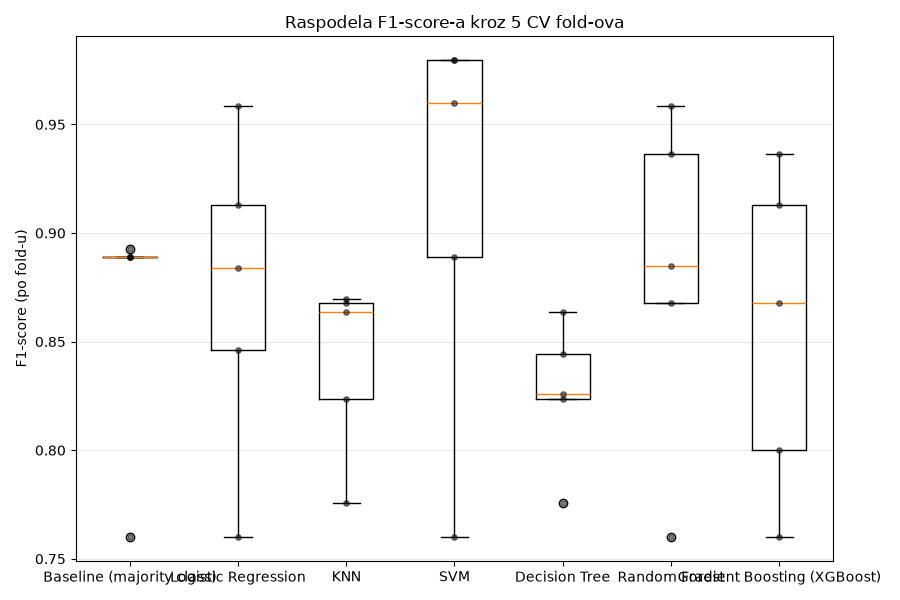
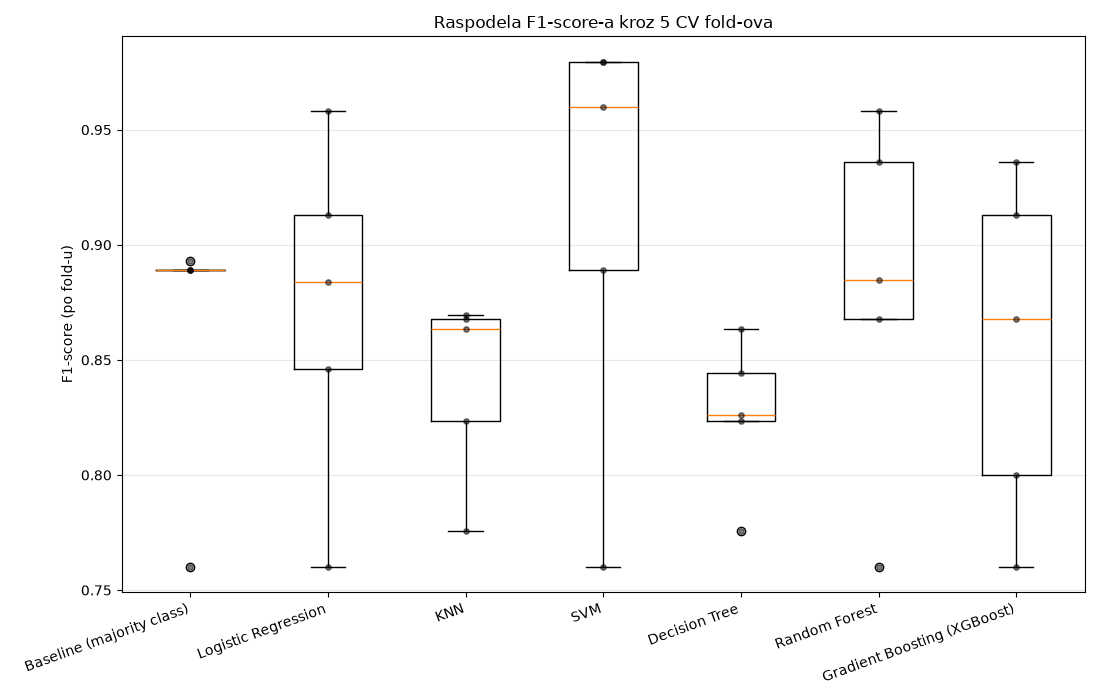
Update graphics

diff --git a/src/data_analysis.py b/src/data_analysis.py
@@ -1,4 +1,3 @@
-import re
 from pathlib import Path
 
 import pandas as pd
@@ -19,15 +18,11 @@ RESULTS_DIR.mkdir(parents=True, exist_ok=True)
 CORRELATION_HEATMAP_PATH = RESULTS_DIR / "correlation_heatmap.png"
 CLASS_DISTRIBUTION_PATH = RESULTS_DIR / "class_distribution.png"
 PCA_SCATTER_PATH = RESULTS_DIR / "pca_scatter.png"
+BOXPLOTS_PATH = RESULTS_DIR / "boxplots_top_features.png"
+HISTOGRAMS_PATH = RESULTS_DIR / "histograms_top_features.png"
 
 TOP_N_FEATURES = 9
-
-
-def sanitize_feature_name(feature):
-    """
-    "MDVP:Fo(Hz)" -> "MDVP_FoHz", da ime fajla bude bezbedno za sve OS.
-    """
-    return re.sub(r"[^0-9a-zA-Z]+", "_", feature).strip("_")
+GRID_ROWS, GRID_COLS = 3, 3
 
 
 def plot_correlation_heatmap(numeric_df, output_path):
@@ -69,14 +64,25 @@ def top_correlated_features(correlation, target="status", n=TOP_N_FEATURES):
     )
 
 
-def plot_feature_boxplot(df, feature, output_path):
-    plt.figure(figsize=(5, 4))
-    sns.boxplot(x="status", y=feature, data=df, hue="status", legend=False)
-    plt.title(f"{feature} po klasama")
-    plt.xlabel("status (0 = zdrav, 1 = Parkinson)")
-    plt.tight_layout()
-    plt.savefig(output_path)
-    plt.close()
+def plot_feature_boxplots(df, features, output_path):
+    """
+    Svi top-N boxplot-ovi na jednoj slici (grid), umesto jednog fajla po
+    atributu - lakše za poređenje na prvi pogled.
+    """
+    fig, axes = plt.subplots(GRID_ROWS, GRID_COLS, figsize=(15, 12))
+
+    for ax, feature in zip(axes.flat, features):
+        sns.boxplot(x="status", y=feature, data=df, hue="status", legend=False, ax=ax)
+        ax.set_title(feature)
+        ax.set_xlabel("status (0 = zdrav, 1 = Parkinson)")
+
+    for ax in axes.flat[len(features):]:
+        ax.axis("off")
+
+    fig.suptitle("Top atributi po korelaciji sa 'status' - raspodela po klasama")
+    fig.tight_layout()
+    fig.savefig(output_path)
+    plt.close(fig)
 
 
 def plot_pca_scatter(numeric_df, output_path):
@@ -117,13 +123,24 @@ def plot_pca_scatter(numeric_df, output_path):
     return explained_variance
 
 
-def plot_feature_histogram(df, feature, output_path):
-    plt.figure(figsize=(5, 4))
-    sns.histplot(data=df, x=feature, hue="status", kde=True, element="step")
-    plt.title(f"Raspodela atributa {feature}")
-    plt.tight_layout()
-    plt.savefig(output_path)
-    plt.close()
+def plot_feature_histograms(df, features, output_path):
+    """
+    Svi top-N histogrami na jednoj slici (grid), umesto jednog fajla po
+    atributu - lakše za poređenje na prvi pogled.
+    """
+    fig, axes = plt.subplots(GRID_ROWS, GRID_COLS, figsize=(15, 12))
+
+    for ax, feature in zip(axes.flat, features):
+        sns.histplot(data=df, x=feature, hue="status", kde=True, element="step", ax=ax)
+        ax.set_title(feature)
+
+    for ax in axes.flat[len(features):]:
+        ax.axis("off")
+
+    fig.suptitle("Top atributi po korelaciji sa 'status' - raspodela vrednosti")
+    fig.tight_layout()
+    fig.savefig(output_path)
+    plt.close(fig)
 
 
 def main():
@@ -169,14 +186,8 @@ def main():
     print(f"\nAtributi najjače korelisani sa 'status' (top {TOP_N_FEATURES}):")
     print(correlation["status"][top_features])
 
-    for feature in top_features:
-        safe_name = sanitize_feature_name(feature)
-        plot_feature_boxplot(
-            numeric_df, feature, RESULTS_DIR / f"boxplot_{safe_name}.png"
-        )
-        plot_feature_histogram(
-            numeric_df, feature, RESULTS_DIR / f"histogram_{safe_name}.png"
-        )
+    plot_feature_boxplots(numeric_df, top_features, BOXPLOTS_PATH)
+    plot_feature_histograms(numeric_df, top_features, HISTOGRAMS_PATH)
 
     print(f"\nGrafici su sačuvani u: {RESULTS_DIR}")
 

diff --git a/src/learning_curve.py b/src/learning_curve.py
@@ -2,16 +2,23 @@
 Learning curve za finalni model - train vs cross-validation F1-score u
 zavisnosti od veličine trening skupa.
 
-Svrha: vizuelno pokazati da li model underfituje (i train i CV skor niski),
-overfituje (train skor visok, CV skor nizak i razmak između njih veliki) ili
-je dobro balansiran (oba skora se približavaju sa više podataka).
+Svrha: pokazati da li model underfituje (i train i CV skor niski), overfituje
+(train skor visok, CV skor nizak i razmak između njih veliki) ili je dobro
+balansiran (oba skora se približavaju sa više podataka).
+
+Rezultat je tabela (CSV), ne grafik: sa samo 32 osobe, svaka tačka je CV
+procena na grupama od ~5-6 osoba po fold-u, pa je linija na grafiku
+šumovita (par konkretnih osoba pomeri CV F1 gore-dole nekoliko procentnih
+poena) - tabela sa std. devijacijom po veličini je iskreniji prikaz te
+nesigurnosti nego glatka linija koja sugeriše čistiji trend nego što ga
+ovaj dataset stvarno može da pokaže.
 """
 
 from pathlib import Path
 
 import joblib
 import numpy as np
-import matplotlib.pyplot as plt
+import pandas as pd
 
 from sklearn.model_selection import learning_curve, StratifiedGroupKFold
 
@@ -25,7 +32,7 @@ FEATURES_PATH = BASE_DIR / "models" / "selected_features.joblib"
 
 RESULTS_DIR = BASE_DIR / "results" / "final_model"
 RESULTS_DIR.mkdir(parents=True, exist_ok=True)
-OUTPUT_PATH = RESULTS_DIR / "learning_curve.png"
+OUTPUT_PATH = RESULTS_DIR / "learning_curve.csv"
 
 TRAIN_SIZES = np.linspace(0.2, 1.0, 8)
 
@@ -54,32 +61,23 @@ def main():
 
     train_mean, train_std = train_scores.mean(axis=1), train_scores.std(axis=1)
     test_mean, test_std = test_scores.mean(axis=1), test_scores.std(axis=1)
+    gap = train_mean - test_mean
 
-    print("Veličina trening podskupa | Train F1 | CV F1")
-    for size, tr, te in zip(train_sizes_abs, train_mean, test_mean):
-        print(f"{size:>24} | {tr:.4f}   | {te:.4f}")
+    table = pd.DataFrame({
+        "Veličina trening skupa": train_sizes_abs,
+        "Train F1 (prosek)": train_mean,
+        "Train F1 (std)": train_std,
+        "CV F1 (prosek)": test_mean,
+        "CV F1 (std)": test_std,
+        "Razmak (Train - CV)": gap,
+    })
 
-    plt.figure(figsize=(8, 5))
-    plt.plot(train_sizes_abs, train_mean, marker="o", label="Train F1-score")
-    plt.fill_between(
-        train_sizes_abs, train_mean - train_std, train_mean + train_std, alpha=0.15
-    )
-    plt.plot(train_sizes_abs, test_mean, marker="o", label="CV F1-score")
-    plt.fill_between(
-        train_sizes_abs, test_mean - test_std, test_mean + test_std, alpha=0.15
-    )
-    plt.xlabel("Broj snimaka u trening podskupu")
-    plt.ylabel("F1-score")
-    plt.title("Learning curve - finalni model (Random Forest)")
-    plt.legend(loc="lower right")
-    plt.grid(True, alpha=0.3)
-    plt.tight_layout()
-    plt.savefig(OUTPUT_PATH)
-    plt.close()
+    print(table.to_string(index=False))
 
-    gap = train_mean[-1] - test_mean[-1]
-    print(f"\nRazmak (train - CV) F1 na punom trening skupu: {gap:.4f}")
-    print(f"Grafik sačuvan u: {OUTPUT_PATH}")
+    table.to_csv(OUTPUT_PATH, index=False)
+
+    print(f"\nRazmak (train - CV) F1 na punom trening skupu: {gap[-1]:.4f}")
+    print(f"Tabela sačuvana u: {OUTPUT_PATH}")
 
 
 if __name__ == "__main__":

diff --git a/src/train.py b/src/train.py
@@ -112,7 +112,7 @@ def plot_cv_score_boxplots(raw_fold_scores, output_path):
     model_names = list(raw_fold_scores.keys())
     fold_f1_scores = [raw_fold_scores[name]["test_f1"] for name in model_names]
 
-    plt.figure(figsize=(9, 6))
+    plt.figure(figsize=(11, 7))
     plt.boxplot(fold_f1_scores, tick_labels=model_names)
     plt.scatter(
         np.repeat(np.arange(1, len(model_names) + 1), 5),
@@ -122,6 +122,7 @@ def plot_cv_score_boxplots(raw_fold_scores, output_path):
         s=15,
         zorder=3,
     )
+    plt.xticks(rotation=20, ha="right")
     plt.ylabel("F1-score (po fold-u)")
     plt.title("Raspodela F1-score-a kroz 5 CV fold-ova")
     plt.grid(True, axis="y", alpha=0.3)

diff --git a/README.md b/README.md
@@ -124,13 +124,35 @@ dodatno proverava koliko su ove metrike osetljive na konkretan izbor
 train/test split-a, ponavljajući split+trening+evaluaciju za 7 različitih
 random seed-ova (videti [results/final_model/split_robustness.csv](results/final_model/split_robustness.csv)).
 
-[src/learning_curve.py](src/learning_curve.py) prikazuje train vs CV
-F1-score u zavisnosti od veličine trening skupa
-([results/final_model/learning_curve.png](results/final_model/learning_curve.png)):
-na punom trening skupu train F1 ≈ 0.99, CV F1 ≈ 0.84 — razmak od ~0.15
-ukazuje na blagi overfitting, što je realno za Random Forest na skupu od
-ovolike veličine, ali nije alarmantno (CV skor ostaje stabilan, ne pada sa
-više podataka).
+[src/learning_curve.py](src/learning_curve.py) upoređuje train vs CV
+F1-score u zavisnosti od veličine trening skupa, sačuvano kao **tabela**
+([results/final_model/learning_curve.csv](results/final_model/learning_curve.csv))
+umesto grafika: sa samo 32 osobe, svaka tačka je CV procena na grupama od
+~5-6 osoba po fold-u (CV F1 std. devijacija po veličini je 0.05-0.07, što
+je istog reda veličine kao i razlike između susednih tačaka), pa bi glatka
+linija na grafiku sugerisala čistiji, pouzdaniji trend nego što ovaj
+dataset stvarno može da pokaže.
+
+Na punom trening skupu (158 uzoraka): train F1 ≈ 0.99, CV F1 ≈ 0.84 —
+razmak od ~0.15. Bitno: taj razmak **nije specifičan za najveću veličinu**
+- kreće se 0.10-0.15 kroz ceo opseg veličina (vidi CSV), uključujući i
+najmanji trening podskup (31 uzoraka, gde je train F1 već 1.0). To je znak
+da je razmak strukturna karakteristika Random Forest-a na ovom dataset-u
+(videti dole), ne nešto što bi se popravilo samo postepenim dodavanjem
+podataka iz **istog**, već postojećeg skupa od 32 osobe.
+
+**Da li se taj razmak može smanjiti?** Probano je sa jačom regularizacijom
+(manji `max_depth`, veći `min_samples_leaf` u `GridSearchCV` grid-u, mereno
+na `X_train` preko `GridSearchCV.best_score_` - drugačiji postupak merenja
+od `learning_curve.py` iznad, pa je polazni razmak ovde 0.125, ne 0.15, ali
+zaključak je isti): i sa `max_depth=3, min_samples_leaf=10` razmak ostaje
+praktično isti (0.125 → 0.108), dok CV F1 pada sa 0.871 na 0.818. Razlog:
+kod Random Forest-a (bagging) razmak delom dolazi iz same prirode bagginga
+(svako stablo skoro savršeno klasifikuje sopstveni bootstrap uzorak), ne
+samo iz dubine stabla, pa ga je teško ukloniti bez žrtvovanja
+generalizacije. Pošto `GridSearchCV` već bira kombinaciju koja maksimizuje
+CV F1 (ispravan kriterijum), trenutni hiperparametri se ne menjaju samo da
+bi razmak izgledao manji na grafiku.
 
 Baseline (model koji uvek predviđa većinsku klasu) ima F1 = 0.86 i
 ROC-AUC = 0.50 — visok F1 baseline-a je posledica neravnomernih klasa
@@ -147,7 +169,18 @@ tri metode se slažu oko 4 snimka (osobe `S24` i `S35`,
 [results/anomaly_detection/anomaly_overlap.txt](results/anomaly_detection/anomaly_overlap.txt)) -
 nisu uklonjeni, jer kod ovako malog dataset-a izolovanost u prostoru
 atributa pre liči na prirodnu varijaciju izraženosti bolesti nego na
-grešku u merenju.
+grešku u merenju. Bitan detalj: anomalna su samo 4 od ukupno 13 snimaka
+ove dve osobe (S24 ima 6 snimaka, S35 ima 7), ne svi njihovi snimci - da
+je cela osoba "čudna", to bi ukazivalo na grešku u opremi/protokolu za tu
+osobu, ali pošto su samo pojedini njeni snimci izolovani, to više liči na
+varijaciju izraženosti simptoma iz snimka u snimak.
+
+Ova odluka je i empirijski proverena: treniranje istog modela (isti split,
+isti grid) bez ta 4 snimka **pogoršava** i CV F1 (0.871 → 0.848) i test
+ROC-AUC (0.970 → 0.938), bez ikakve dobiti na ostalim test metrikama (koje
+ostaju iste, pošto su anomalni snimci bili u trening, ne u test skupu).
+Uklanjanje anomalija ovde ne čisti šum - briše deo signala koji model
+treba da nauči.
 
 Potpuna dokumentacija projekta (opis problema, metodologija, rezultati i
 diskusija po fazama specifikacije) je u

diff --git a/docs/documentation.md b/docs/documentation.md
@@ -58,8 +58,9 @@ rezultati u [results/graphics/](../results/graphics/).
 - **Atributi najjače korelisani sa ciljnom promenljivom**: `spread1`,
   `PPE`, `spread2`, `MDVP:Fo(Hz)`, `MDVP:Flo(Hz)`, `MDVP:Shimmer`,
   `MDVP:APQ`, `HNR`, `Shimmer:APQ5` (apsolutna Pearson korelacija sa
-  `status`). Za njih su generisani `boxplot_*.png` (raspodela po klasi) i
-  `histogram_*.png` (raspodela vrednosti) grafici.
+  `status`). Za njih su generisani `boxplots_top_features.png` (raspodela
+  po klasi, sva 9 atributa na jednoj slici, grid 3×3) i
+  `histograms_top_features.png` (raspodela vrednosti, isti format).
 - **Anomalije/ekstremne vrednosti**: boxplot-ovi pokazuju prirodno
   rasipanje karakteristično za biomedicinske signale (par outlier-a po
   atributu), bez vrednosti koje ukazuju na grešku u merenju/unosu (npr.
@@ -209,14 +210,28 @@ pouzdaniji uvid u kvalitet modela 5-fold group CV rezultat iz tačke 4/5
 (Best CV F1-score = 0.871).
 
 **Bias-variance / over-underfitting.** [src/learning_curve.py](../src/learning_curve.py)
-crta train i CV F1-score finalnog modela u zavisnosti od veličine trening
-skupa (`results/final_model/learning_curve.png`). Train F1 brzo dostiže
-~0.99, dok CV F1 ostaje oko 0.84–0.88 kroz čitav opseg veličina —
-razmak (~0.15 na punom trening skupu) je znak **blagog overfitting-a**,
-očekivan kod Random Forest-a na ovoliko malom skupu, ali ne i kritičan:
-CV skor se ne smanjuje sa dodavanjem podataka (znak da model ne kolabira),
-a razmak je u skladu sa onim što je već uočeno u tački 4 — razlikom između
-train rezultata i CV/test rezultata.
+upoređuje train i CV F1-score finalnog modela u zavisnosti od veličine
+trening skupa, sačuvano kao **tabela**, ne grafik
+(`results/final_model/learning_curve.csv`) - sa samo 32 osobe, svaka tačka
+je CV procena na grupama od ~5-6 osoba po fold-u (CV F1 std. devijacija po
+veličini je 0.05-0.07, istog reda veličine kao razlike između susednih
+tačaka), pa bi glatka linija na grafiku sugerisala čistiji trend nego što
+ovaj dataset stvarno može pokazati.
+
+Train F1 brzo dostiže ~0.99 (već sa 31 uzoraka), dok se CV F1 kreće
+0.84–0.88 kroz čitav opseg veličina, sa blagim padom na najveće dve
+veličine (0.846, 0.844 na 139/158 uzoraka) — razmak (~0.10-0.15 kroz ceo
+opseg, ~0.15 na punom trening skupu) je znak **blagog overfitting-a**,
+očekivan kod Random Forest-a (bagging) na ovoliko malom skupu. Bitno:
+razmak je prisutan **kroz ceo opseg veličina**, ne samo na najvećoj — to
+je znak da je strukturna karakteristika modela na ovom dataset-u, ne
+nedostatak podataka koji bi nestao samo postepenim dodavanjem uzoraka iz
+**istog**, već postojećeg skupa od 32 osobe. Probano je i sa jačom
+regularizacijom (manji `max_depth`, veći `min_samples_leaf`): razmak se
+ne smanjuje značajno (0.125 → 0.108), dok CV F1 pada (0.871 → 0.818) - kod
+bagging metoda kao Random Forest, razmak delom dolazi iz same prirode
+bagginga (svako stablo skoro savršeno klasifikuje sopstveni bootstrap
+uzorak), pa ga je teško ukloniti bez žrtvovanja generalizacije.
 
 ## 7. Deployment modela
 